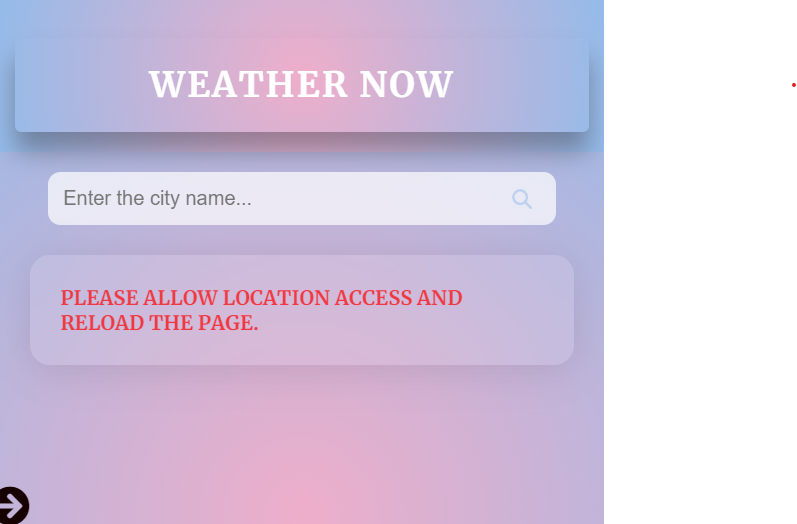
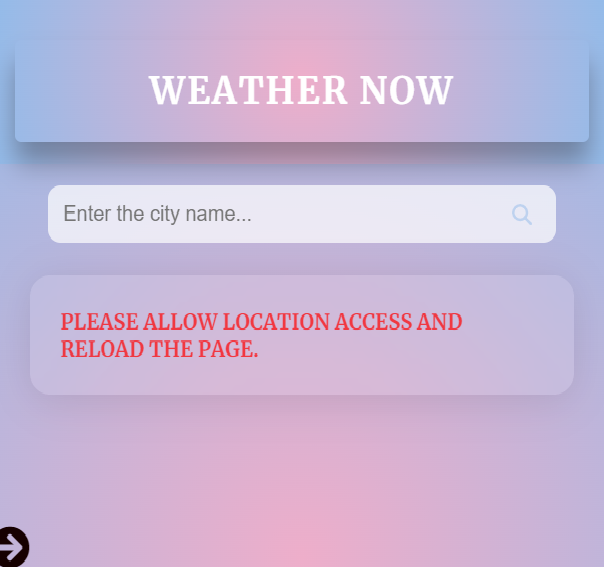
Feat: Update design and fix bugs

diff --git a/assets/js/script.js b/assets/js/script.js
@@ -7,7 +7,7 @@ let lastUpdatedTime = '';
 
 // Add the unlock CORS access button
 const unlockButton = document.createElement("button");
-unlockButton.textContent = "Unlock CORS Access";
+unlockButton.textContent = "Unlock Server Access";
 unlockButton.addEventListener("click", () => {
     window.open("https://cors-anywhere.herokuapp.com/corsdemo", "_blank");
     unlockButton.style.display = "none";
@@ -682,7 +682,7 @@ chartBtn.addEventListener('click', async () => {
     isChartOpen = !isChartOpen;
 });
 
-// localStorage.removeItem('searchHistory');
+localStorage.removeItem('searchHistory');
 
 // Add a button to show the search history
 const showHistoryBtn = document.getElementById('show-history-btn');
@@ -820,7 +820,7 @@ sideBarBtn.addEventListener('click', () => {
 
 showCurrentTime();
 // TODO - Comment out the following line to avoid making too many API call for the user's current location
-getWeatherForCurrentLocation();
+// getWeatherForCurrentLocation();
 
 // TODO - Add a map that shows the location of the city. (Future feature)
 // TODO - Update weather icons. (Future feature)
@@ -830,5 +830,5 @@ getWeatherForCurrentLocation();
 // TODO - Double check error handling.
 // TODO - Remove console logs. ???
 // TODO - Remove unused code.
-
+// TODO - Color code the temperature. (Future feature)
 // TODO - Handle cors error

diff --git a/assets/css/style.css b/assets/css/style.css
@@ -64,7 +64,6 @@ main {
     letter-spacing: .1rem;
     text-align: center;
     color: var(--secondary-color-h1);
-    background-image: linear-gradient(circle, var(--gradient-end-color) 0%, var(--gradient-start-color) 100%);
     box-shadow: 0 16px 20px rgba(0, 0, 0, .3);
     padding: 1.25rem;
     border-radius: 5px;
@@ -352,7 +351,7 @@ body>button {
 /* Weather info styles */
 .current-info {
     display: flex;
-    background-color: 0;
+    background-color: transparent;
 }
 
 #current-flag {
@@ -392,7 +391,7 @@ marquee {
     bottom: .35rem;
     padding: 0;
     height: 2rem;
-    background-color: 0;
+    background-color: transparent;
     display: flex;
     justify-content: space-between;
     z-index: 1;
@@ -660,7 +659,7 @@ footer {
 
     /* Google Charts styles */
     #chart_div {
-        scale: .9;
+        scale: 0.9;
     }
 }
 
@@ -715,7 +714,7 @@ footer {
 
     /* Google Charts styles */
     #chart_div {
-        scale: .75;
+        scale: 0.75;
     }
 }
 

diff --git a/README.md b/README.md
@@ -71,7 +71,7 @@ Weather Now is a web application that provides real-time weather information for
 | As a user, I want to view my search history for quick reference. | There is a "Show History" button that, when clicked, displays a list of past searches for quick reference.|
 | As a user, I want to access the source code on GitHub. | There is a GitHub icon or link that, when clicked, redirects me to the Weather App's source code on GitHub|
 | As a user, I want a visually appealing and responsive design. | The application has a responsive layout that works well on different devices. The design is visually appealing, providing a seamless and enjoyable user experience.|
-
+![Alt text](assets/media/alert-already-updated.png) ![Alt text](assets/media/alert-clear-favorites.png) ![Alt text](assets/media/Animation-intro.gif) ![Alt text](assets/media/btn-chart-active.png) ![Alt text](assets/media/btn-clear-favorites.png) ![Alt text](assets/media/btn-forecast-chart.png) ![Alt text](assets/media/btn-temp-toggle.png) ![Alt text](assets/media/error-429.png) ![Alt text](assets/media/error-cors-access.png) ![Alt text](assets/media/error-location-access.png) ![Alt text](assets/media/error-no-favorites.png) ![Alt text](assets/media/error-no-history.png) ![Alt text](assets/media/error-not-found.png) ![Alt text](assets/media/feat-chart.png) ![Alt text](assets/media/feat-current-info.gif) ![Alt text](assets/media/feat-dark-mode-btn.png) ![Alt text](assets/media/feat-dark-mode-screen.png) ![Alt text](assets/media/feat-favorite-btn.png) ![Alt text](assets/media/feat-favorite-container.png) ![Alt text](assets/media/feat-favorite-icon.png) ![Alt text](assets/media/feat-flags-api.png) ![Alt text](assets/media/feat-footer.png) ![Alt text](assets/media/feat-forecast.png) ![Alt text](assets/media/feat-github-btn.png) ![Alt text](assets/media/feat-header.png) ![Alt text](assets/media/feat-history-btn.png) ![Alt text](assets/media/feat-history-container.png) ![Alt text](assets/media/feat-last-updated.png) ![Alt text](assets/media/feat-loading-chart.gif) ![Alt text](assets/media/feat-loading-forecast.gif) ![Alt text](assets/media/feat-refresh-btn.png) ![Alt text](assets/media/feat-search.png) ![Alt text](assets/media/feat-side-bar-btn.png) ![Alt text](assets/media/feat-side-bar-desktop.png) ![Alt text](assets/media/feat-side-bar-mobile.png) ![Alt text](assets/media/feat-weather-container.png) ![Alt text](assets/media/responsive-hero.png)
 ## Wireframe
 <!-- TODO -->
 ## Features
